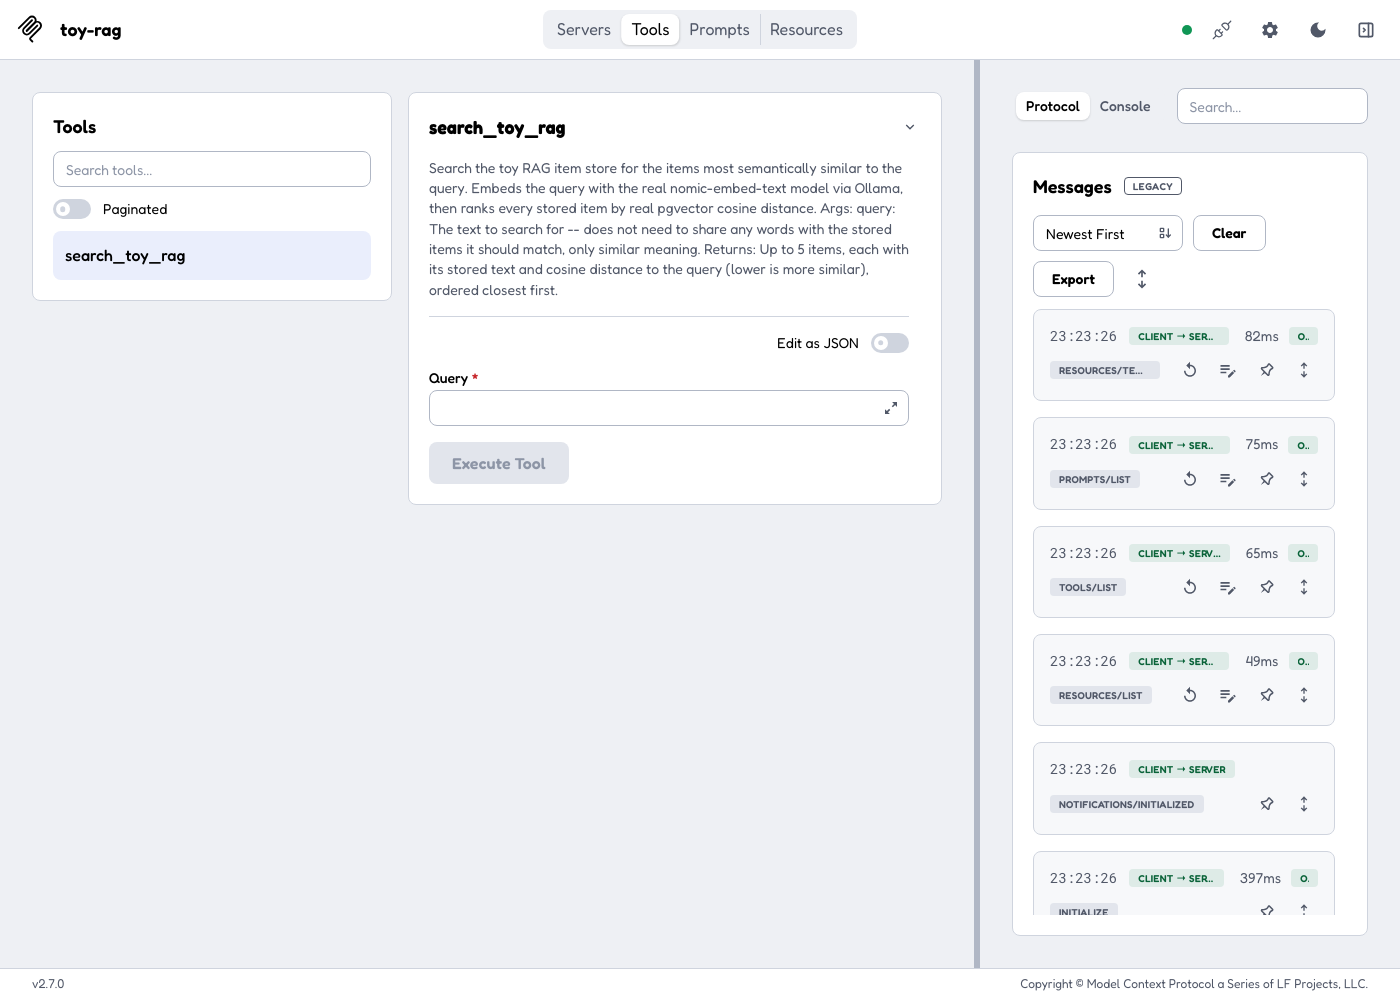
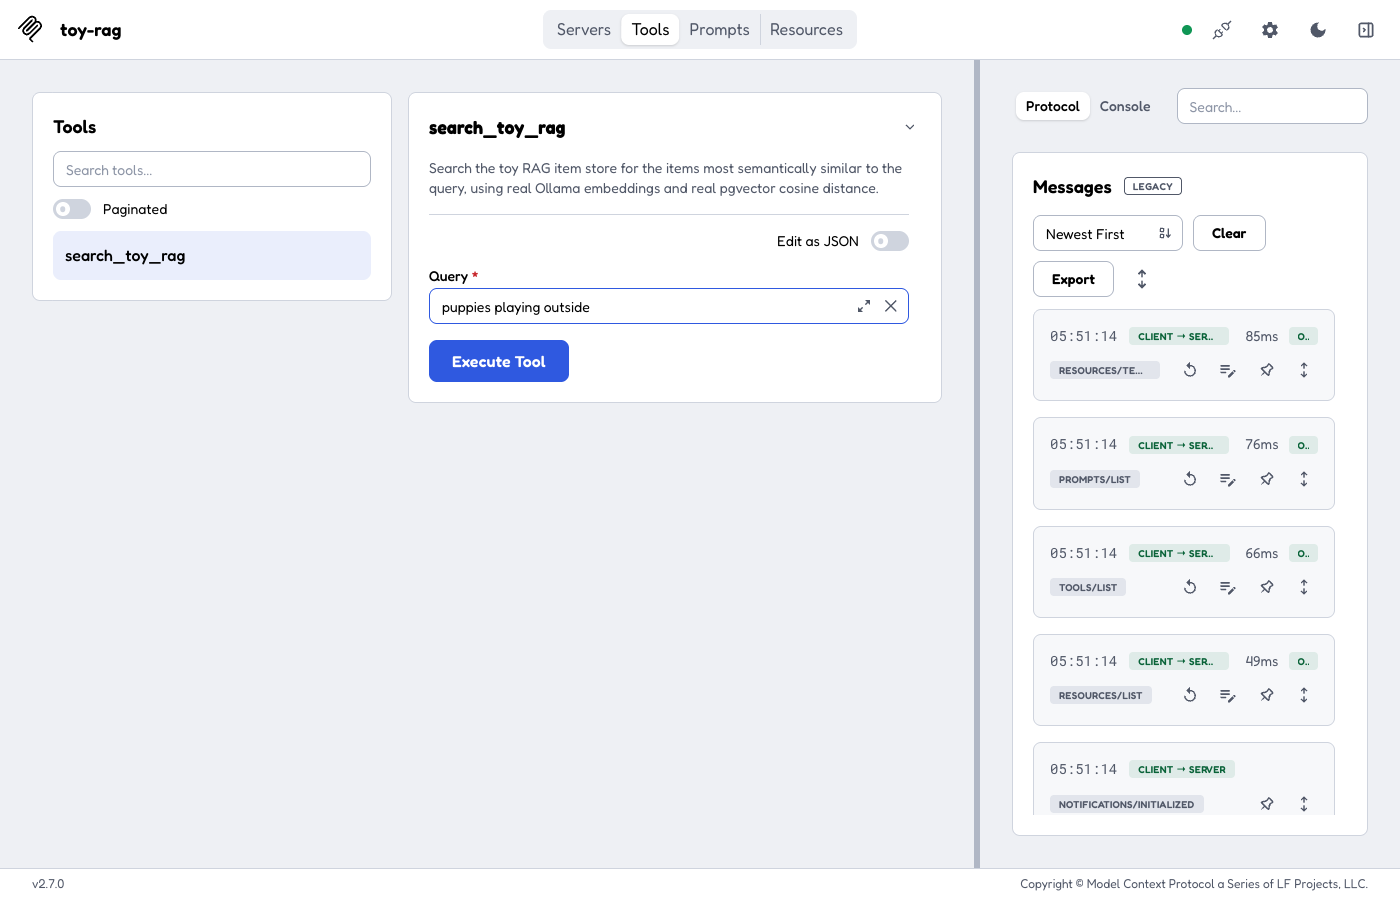
rag1: capture the missing MCP Inspector button-press screenshots
The post jumped straight to "immediately spawns the server, ready to
connect" and a Tools form with search_toy_rag already selected -- it
never showed the actual starting Servers page (disconnected, toggle
off), the click that connects it, or the query field being filled in
before Execute Tool. All real steps, none previously screenshotted.

Adds two new screenshots (Servers tab disconnected, then connected
after clicking the toggle) and recaptures the tool-form screenshot to
show the query actually typed in, plus a matching fresh tool-result
screenshot from the same session. All four captured via Playwright
driving a real Chrome instance against the real running Inspector
session and toy-rag server -- genuine timings (85/76/66/49ms for the
four discovery calls, 599ms for the tools/call) and genuine distances
matching this post's earlier curl output. Verified zero broken images
on the built page afterward.

diff --git a/content/rag1.md b/content/rag1.md
@@ -681,15 +681,27 @@ npx -y @modelcontextprotocol/inspector docker compose exec -T backend python mcp
 
 `npx` is a tool bundled with Node.js that downloads and runs a published package on demand, without needing to install it permanently first — appropriate here for a tool only being used once, briefly. `-y` answers "yes" automatically to `npx`'s own "okay to install this?" confirmation prompt, so the command can run non-interactively. `@modelcontextprotocol/inspector` is the package name itself, published by the same organisation that defines the MCP protocol. Everything after it — `docker compose exec -T backend python mcp_server.py` — is not an argument Inspector parses itself; it is the exact command Inspector should run and treat as an MCP server, which is why it deliberately matches what `.mcp.json` uses further down this post: proving Inspector talks to precisely the same server Claude Code will later, not a hand-simplified stand-in for it. The `-T` flag on `docker compose exec` disables allocating a pseudo-terminal for the executed command — appropriate for a process like this one that communicates over raw stdio rather than expecting an interactive terminal session, and necessary here because allocating one can interfere with the clean stdio byte stream MCP's protocol depends on.
 
-This starts a local web UI (`http://127.0.0.1:6274`, with an auth token in the URL) and immediately spawns the server, ready to connect. **Open that URL in Chrome, not Safari.** Testing this same setup surfaced a real, reproducible problem specific to Safari: the connection shows "Connected," but the Tools tab stays permanently empty, with `tools/list` stuck showing "PENDING" in the message log — even after reconnecting the server. Sending the exact same request sequence directly to the server (bypassing the browser entirely) got an instant, correct response every time, which rules out the server itself; opening the identical URL in Chrome instead resolved it immediately, with `search_toy_rag` appearing right away. If you only have Safari open and the Tools list stays empty after clicking the **Tools** tab, this is why — switch browsers rather than troubleshooting further.
+This starts a local web UI (`http://127.0.0.1:6274`, with an auth token in the URL) — **open it in Chrome, not Safari.** Testing this same setup surfaced a real, reproducible problem specific to Safari: the connection shows "Connected," but the Tools tab stays permanently empty, with `tools/list` stuck showing "PENDING" in the message log — even after reconnecting the server. Sending the exact same request sequence directly to the server (bypassing the browser entirely) got an instant, correct response every time, which rules out the server itself; opening the identical URL in Chrome instead resolved it immediately, with `search_toy_rag` appearing right away. If you only have Safari open and the Tools list stays empty after clicking the **Tools** tab, this is why — switch browsers rather than troubleshooting further.
+
+The page opens on the **Servers** tab, with the server already listed but **not yet connected**:
+
+![](assets/images/rag1/inspector-servers-disconnected.png)
+*The real starting state — the `docker compose exec` command Inspector will run is already filled in, but the toggle on the right still reads "Disconnected." Nothing happens until it is clicked.*
+
+Click that toggle. It spawns the `docker compose exec -T backend python mcp_server.py` process for real, performs the actual MCP handshake (`initialize`, then `notifications/initialized`) and, once connected, automatically asks the server what it offers — the four requests logged on the right (`resources/templates/list`, `prompts/list`, `tools/list`, `resources/list`), each answered for real, in under 100ms:
+
+![](assets/images/rag1/inspector-servers-connected.png)
+*Now genuinely connected — the toggle is blue, the status reads "Connected," and the message log on the right shows four real, completed round trips to the actual spawned process*
+
+Click **Tools** in the top navigation, then click **`search_toy_rag`** in the list on the left, and type a query into the **Query** field:
 
 ![](assets/images/rag1/inspector-tool-form.png)
-*Real Inspector, connected to the real `toy-rag` server — the tool's docstring rendered directly from `mcp_server.py`'s own source, and a form generated from `search_toy_rag`'s one parameter*
+*Real Inspector, connected to the real `toy-rag` server — the tool's docstring rendered directly from `mcp_server.py`'s own source, a form generated from `search_toy_rag`'s one parameter, and `puppies playing outside` typed into it, ready to send*
 
-Filling in `puppies playing outside` and clicking **Execute Tool** sends a real `tools/call` request over a real stdio connection to the running server, and the result surfaces a genuine, non-obvious detail of this particular `mcp` SDK version:
+Clicking **Execute Tool** sends a real `tools/call` request over a real stdio connection to the running server, and the result surfaces a genuine, non-obvious detail of this particular `mcp` SDK version:
 
 ![](assets/images/rag1/inspector-tool-result.png)
-*Three separate result blocks — one per dict in the returned list — plus the clean, pre-parsed "Structured Output" section below them, and the real `tools/call` message logged on the right at 340ms*
+*Three separate result blocks — one per dict in the returned list — plus the clean, pre-parsed "Structured Output" section below them, and the real `tools/call` message logged on the right at 599ms, matching the same three distances this post's earlier `curl` test returned*
 
 A tool returning `list[dict]`, exactly as `search_toy_rag` does, does not land as one JSON array — `mcp==2.0.0` serializes each dict in the list as its own separate `TextContent` block instead, which is why the result above shows three separate entries rather than one. The "Structured Output" section underneath is Inspector's own rendering of `structured_content`, the same field a Python client would read via `result.structured_content["result"]` to get the tool's actual return value back pre-parsed, regardless of how many separate text blocks the plain version was split into.
 
